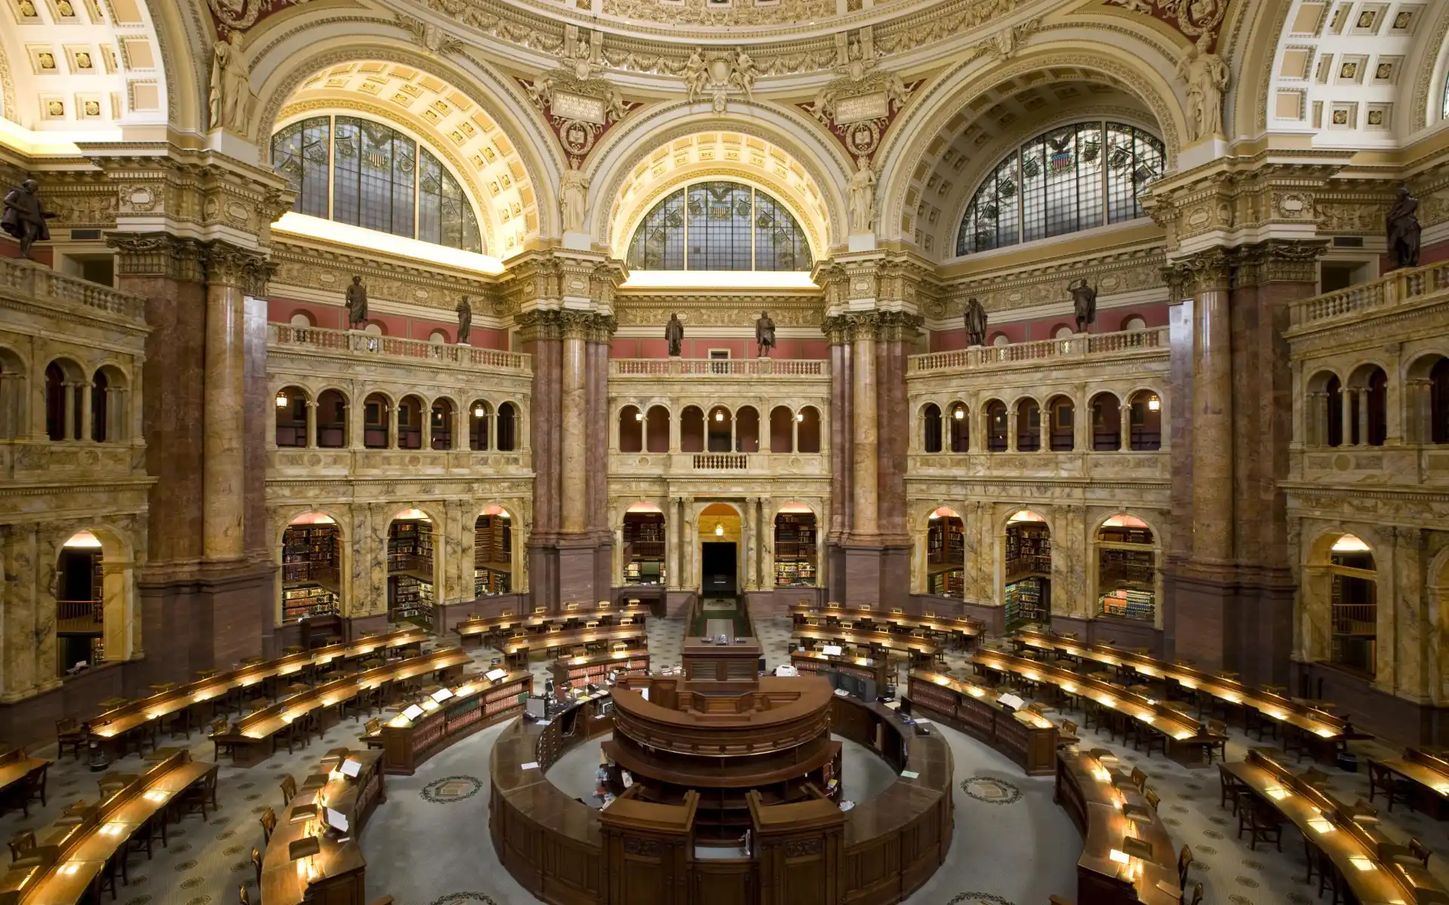
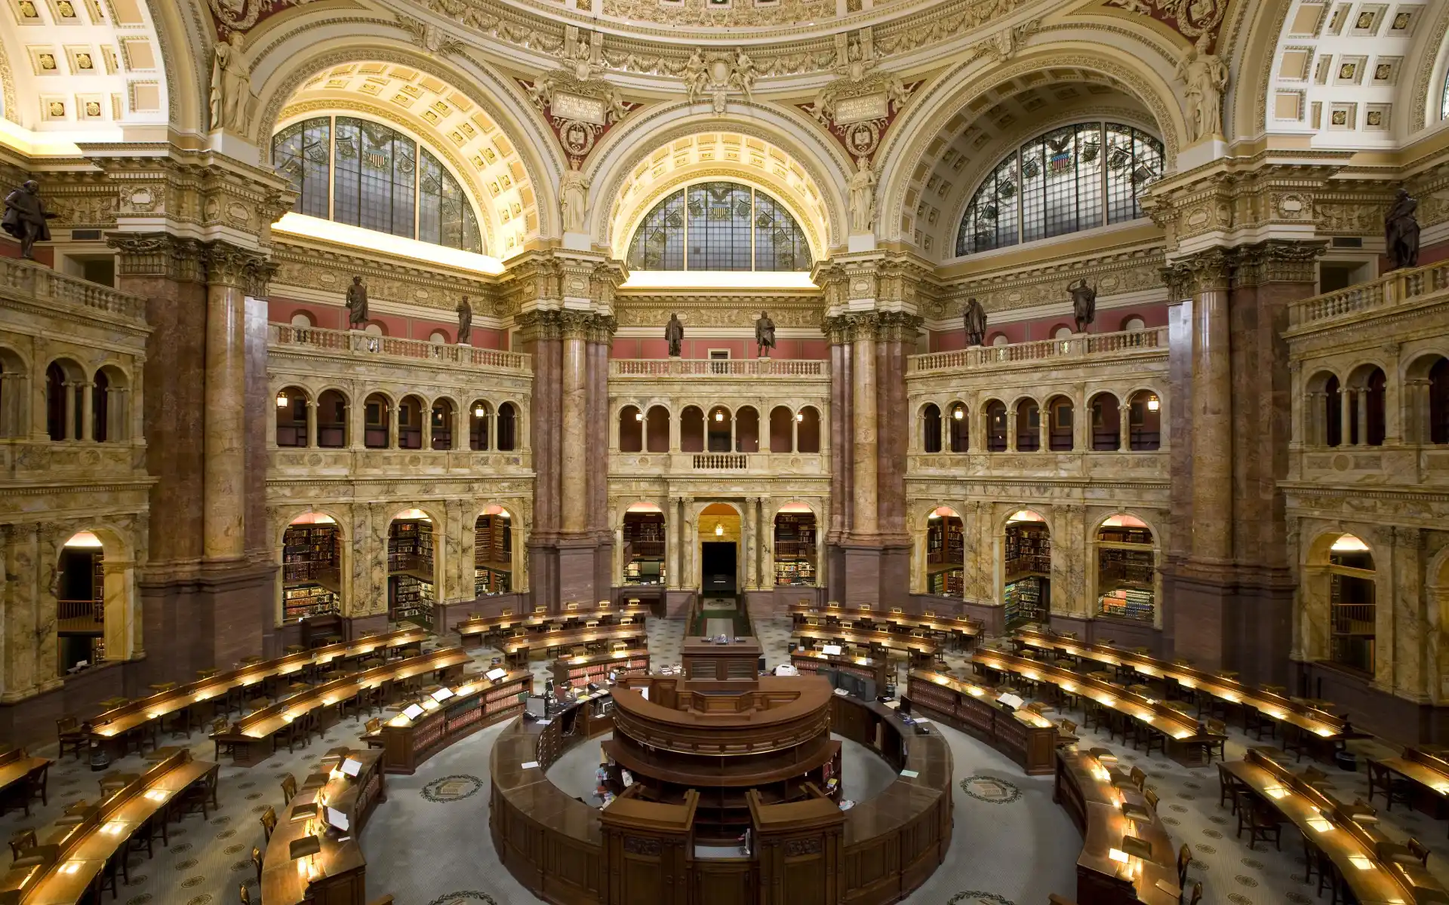
Visual assessment; quieter frame and sharper photos
Removes the generic touches Andrew flagged: frosted glass, pills,
gradients and glows, monospace result box, dashboard stats, pink chips,
stacked footer pills. Solid paper surfaces, hairline rules, one corner
shape per look, flat pieces, display-serif verdict. Photos re-rendered
from larger originals (LoC 3600 px, NASA 5724 px) with a 2880 px version
for high-resolution screens. Assets v=8.

Checks: contrast 560 pairs >= 4.5:1; check-lines 0 problems; 1440/375 px
in every look and state.

diff --git a/site/styles.css b/site/styles.css
@@ -125,9 +125,9 @@ button:focus-visible,a:focus-visible,.tile:focus-visible{outline:3px solid var(-
    Settings tile, in light and dark. Text sits on the frosted card, top bar and footer; their tint is strong enough that every
    text colour stays at least 4.5:1 even over pure black or white (checked in docs/mockups/check-contrast.js). */
 [data-look]{--veil:rgba(0,0,0,0);--hl2:var(--hl);--accent-ink:#FFFFFF;--line-size:clamp(28px,4.6vw,40px);--line-weight:400;--line-track:-.01em}
-[data-look="library"]{--art:url("looks/library-desk.webp");--art-p:url("looks/library-phone.webp")}
-[data-look="coast"]{--art:url("looks/coast-desk.webp");--art-p:url("looks/coast-phone.webp")}
-[data-look="night"]{--art:url("looks/night-desk.webp");--art-p:url("looks/night-phone.webp")}
+[data-look="library"]{--art:url("looks/library-desk.webp");--art2:image-set(url("looks/library-desk.webp") 1x,url("looks/library-desk2.webp") 2x);--art-p:url("looks/library-phone.webp")}
+[data-look="coast"]{--art:url("looks/coast-desk.webp");--art2:image-set(url("looks/coast-desk.webp") 1x,url("looks/coast-desk2.webp") 2x);--art-p:url("looks/coast-phone.webp")}
+[data-look="night"]{--art:url("looks/night-desk.webp");--art2:image-set(url("looks/night-desk.webp") 1x,url("looks/night-desk2.webp") 2x);--art-p:url("looks/night-phone.webp")}
 [data-look="library"],:root[data-look="library"]{--paper:#F3ECDB;--card:#FBF6EA;--glass:rgba(251,246,234,.92);--rim:rgba(255,255,255,.6);--ink:#211A10;--muted:#5D533F;--line:#E4D9BF;--bar:#24402F;--tool:#C9A048;--hl:#F1D488;--hl2:#E2B64E;--hl-ink:#211A10;--accent:#6B4F12;--accent-bg:#F3E7C9;--accent-ink:#FFFFFF;
   --serif:"Cormorant Garamond",Georgia,serif;--sans:"Inter",system-ui,-apple-system,"Segoe UI",sans-serif;--line-weight:500;--line-size:clamp(30px,4.8vw,42px);--line-track:-.005em}
 [data-look="coast"],:root[data-look="coast"]{--paper:#EEF3F7;--card:#FFFFFF;--glass:rgba(255,255,255,.86);--rim:rgba(255,255,255,.85);--ink:#0F2236;--muted:#4A5B6E;--line:#D9E2EA;--bar:#4F8E9D;--hl:#F3D7A6;--hl-ink:#0F2236;--accent:#1D5E86;--accent-bg:#DDEBF3;--accent-ink:#FFFFFF;
@@ -147,43 +147,73 @@ button:focus-visible,a:focus-visible,.tile:focus-visible{outline:3px solid var(-
 /* The photo: one fixed layer behind the page (a phone-shaped crop on small screens), and a small copy in each Settings tile. */
 .scene{display:none}
 :root:is([data-look="library"],[data-look="coast"],[data-look="night"]) body>.scene{display:block;position:fixed;inset:0;z-index:0;pointer-events:none;background:linear-gradient(var(--veil),var(--veil)),var(--art) center/cover no-repeat,var(--paper)}
+@supports (background-image:image-set(url("x.webp") 1x)){@media (min-width:601px){:root:is([data-look="library"],[data-look="coast"],[data-look="night"]) body>.scene{background-image:linear-gradient(var(--veil),var(--veil)),var(--art2)}}}
 @media (max-width:600px){:root:is([data-look="library"],[data-look="coast"],[data-look="night"]) body>.scene{background-image:linear-gradient(var(--veil),var(--veil)),var(--art-p)}}
 .wrap{position:relative;z-index:1;max-width:760px;gap:22px}
 
-/* The sleeker frame, in every look: a floating top bar, a frosted card with room to breathe, pill controls, a one-line footer. */
-header{background:var(--glass);border:1px solid var(--rim);border-radius:999px;padding:10px 10px 10px 22px;-webkit-backdrop-filter:blur(22px) saturate(1.2);backdrop-filter:blur(22px) saturate(1.2)}
+/* The frame, in every look. Solid paper surfaces (no frosted glass), hairline rules, one corner radius per look (--r for controls,
+   --r-lg for the bar and card), flat clue pieces, no glows or gradients. The photo is the atmosphere; the card is the page. */
+[data-look]{--r:6px;--r-lg:10px}
+:root[data-look="library"],[data-look="library"]{--r:2px;--r-lg:3px}
+:root[data-look="coast"],[data-look="coast"]{--r:10px;--r-lg:18px}
+:root[data-look="night"],[data-look="night"]{--r:6px;--r-lg:12px}
+header{background:var(--card);border:1px solid var(--line);border-radius:var(--r-lg);padding:12px 14px 12px 24px;box-shadow:0 10px 30px -18px rgba(0,0,0,.45)}
 h1{font-size:27px;line-height:1.1;white-space:nowrap}
 h1 b{background:none;color:var(--accent);padding:0;font-weight:inherit}
-nav a{font-weight:500;font-size:13.5px;padding:8px 13px}
-nav a[aria-current=page]{background:var(--accent-bg);box-shadow:none}
-main.card{background:var(--glass);border:1px solid var(--rim);border-radius:28px;padding:40px clamp(22px,5vw,48px) 36px;gap:26px;-webkit-backdrop-filter:blur(22px) saturate(1.2);backdrop-filter:blur(22px) saturate(1.2);box-shadow:0 40px 80px -40px rgba(0,0,0,.45)}
+nav a{font-weight:500;font-size:14px;padding:8px 12px;border-radius:0}
+nav a[aria-current=page]{background:none;box-shadow:inset 0 -2px 0 var(--accent);color:var(--ink)}
+main.card{background:var(--card);border:1px solid var(--line);border-radius:var(--r-lg);padding:44px clamp(22px,5.5vw,56px) 40px;gap:28px;box-shadow:0 30px 70px -36px rgba(0,0,0,.55)}
 .meta{font-weight:500;letter-spacing:.01em}
-.quote{font-weight:var(--line-weight);font-size:var(--line-size);line-height:1.32;letter-spacing:var(--line-track)}
+.quote{font-weight:var(--line-weight);font-size:var(--line-size);line-height:1.3;letter-spacing:var(--line-track)}
 .part{padding:.02em .06em}
-.part.fresh{background:linear-gradient(180deg,var(--hl),var(--hl2))}
-.hints{border-left:2px solid var(--accent);padding-left:18px;margin:0;gap:6px}
-.hints li{background:none;padding:2px 0;border-radius:0}
-.hints li.fresh{background:linear-gradient(90deg,var(--hl),rgba(0,0,0,0));padding-left:8px;margin-left:-8px;border-radius:4px}
-.btn{border-radius:999px;background:var(--accent);border-color:var(--accent);color:var(--accent-ink);padding:12px 24px}
+.part.hid,.part.fresh{border-radius:var(--r)}
+.hints{border:0;padding:0;margin:0;gap:0}
+.hints li{background:none;border-radius:0;padding:10px 0;border-top:1px solid var(--line)}
+.hints li:first-child{border-top:0;padding-top:0}
+.hints li.fresh{background:none;color:var(--ink)}
+.hints li.fresh span{color:var(--ink)}
+.hints li.fresh{background:var(--hl);color:var(--hl-ink);padding:9px 12px;border-radius:var(--r);border-top-color:transparent}
+.hints li.fresh span{color:var(--hl-ink)}
+.btn{border-radius:var(--r);background:var(--accent);border-color:var(--accent);color:var(--accent-ink);padding:12px 22px}
 .btn.ghost{background:transparent;color:var(--ink);border-color:var(--line)}
-input[type=text]{border-radius:999px;padding:12px 22px;border-width:1px}
+.btn.ghost:hover{border-color:var(--ink)}
+input[type=text]{border-radius:var(--r);padding:12px 16px;border-width:1px;background:var(--paper)}
 input[type=text]:focus{border-color:var(--accent);box-shadow:0 0 0 3px var(--accent-bg)}
-.foot,.site-credit{align-self:center;background:var(--glass);border:1px solid var(--rim);border-radius:999px;padding:6px 16px;-webkit-backdrop-filter:blur(16px);backdrop-filter:blur(16px)}
-:root[data-look="contrast"] :is(header,main.card,.foot,.site-credit){-webkit-backdrop-filter:none;backdrop-filter:none;box-shadow:none}
-@media (max-width:600px){header{flex-wrap:wrap;border-radius:22px;padding:12px 8px 6px 16px;row-gap:6px}header nav{width:100%;justify-content:space-between;gap:0}nav a{padding:7px 8px;font-size:12.5px}
-  main.card{border-radius:22px;padding:26px 20px 24px;gap:22px}}
+.help{border-radius:var(--r);background:var(--paper);border:1px solid var(--line)}
+.gotit{border-radius:var(--r)}
+.verdict{font-family:var(--serif);font-weight:var(--line-weight);font-size:calc(var(--line-size)*.66);line-height:1.2}
+.verdict.won{color:var(--ink)}
+.misses{gap:4px 14px}
+.misses li{background:none;padding:0;border-radius:0;color:var(--muted);text-decoration:none}
+.misses li::before{content:"Not ";white-space:pre}
+.facts dt{font-weight:500}
+.facts dd i{font-size:1.12em}
+.note{font-size:calc(var(--line-size)*.5);line-height:1.6;max-width:none}
+:root[data-look="library"] .note{font-size:21px}
+.bonus{border-top:1px solid var(--line)}
+.tile,.choice{border-radius:var(--r);border-width:1px}
+.share{background:none;border:1px solid var(--line);border-radius:var(--r);padding:18px 20px}
+.share pre{font:500 15px/1.6 var(--sans)}
+.arch a{border-radius:var(--r);background:var(--paper)}
+.nums{gap:0;grid-template-columns:repeat(3,1fr);border-top:1px solid var(--line)}
+.num{background:none;border-radius:0;padding:16px 4px;border-bottom:1px solid var(--line)}
+.num b{font-size:36px;font-variant-numeric:lining-nums tabular-nums}
+.bars .b{border-radius:var(--r);background:var(--paper)}
+.bars .b.won{background:var(--accent-bg);color:var(--ink)}
+.colophon{align-self:center;display:flex;flex-wrap:wrap;justify-content:center;gap:2px 14px;background:var(--card);border:1px solid var(--line);border-radius:var(--r-lg);padding:8px 18px}
+.colophon p{margin:0}
+:root[data-look="contrast"] :is(header,main.card,.colophon){box-shadow:none}
+@media (max-width:600px){header{flex-wrap:wrap;padding:12px 8px 4px 16px;row-gap:4px}header nav{width:100%;justify-content:space-between;gap:0}nav a{padding:8px 8px;font-size:13px}
+  main.card{padding:28px 20px 26px;gap:24px}.colophon{flex-direction:column;align-items:center;text-align:center}}
 
-/* Accents per look. Library: leather book-spine pieces with gold tooling, a gold-leaf highlight, squarer corners, an underlined title.
-   Coast: sea-glass pieces, sand highlight, round everything. Night: frosted-glass pieces with a faint glow, a moon-gold highlight. */
-:root[data-look="library"] .part.hid,.rtile[data-look="library"] .mini .h{background:linear-gradient(90deg,rgba(0,0,0,0) 6%,var(--tool) 6%,var(--tool) 7.5%,rgba(0,0,0,0) 7.5%,rgba(0,0,0,0) 92.5%,var(--tool) 92.5%,var(--tool) 94%,rgba(0,0,0,0) 94%),linear-gradient(180deg,rgba(255,255,255,.12),rgba(0,0,0,.2)),var(--bar);border-radius:3px;box-shadow:inset 0 1px 0 var(--tool),inset 0 -1px 0 var(--tool)}
-:root[data-look="library"] main.card{border-radius:6px;box-shadow:0 0 0 1px rgba(140,106,30,.35),0 40px 80px -40px rgba(0,0,0,.6)}
-:root[data-look="library"] :is(.btn,input[type=text],.tile,.choice){border-radius:4px}
+/* Accents per look. Library: leather book-spine pieces with gold tooling, a gold-leaf highlight, an underlined title.
+   Coast: flat sea-glass pieces, a sand highlight. Night: pale glass pieces that read as frosted panes, a moon-gold highlight. */
+:root[data-look="library"] .part.hid,.rtile[data-look="library"] .mini .h{background:linear-gradient(90deg,rgba(0,0,0,0) 6%,var(--tool) 6%,var(--tool) 7.5%,rgba(0,0,0,0) 7.5%,rgba(0,0,0,0) 92.5%,var(--tool) 92.5%,var(--tool) 94%,rgba(0,0,0,0) 94%),var(--bar);box-shadow:inset 0 1px 0 var(--tool),inset 0 -1px 0 var(--tool)}
 :root[data-look="library"] h1 b{border-bottom:2px solid currentColor;font-style:normal;font-weight:600}
-:root[data-look="coast"] .part.hid,.rtile[data-look="coast"] .mini .h{background:linear-gradient(160deg,rgba(255,255,255,.55),rgba(255,255,255,0) 45%),linear-gradient(135deg,#7FB9BE,#4F8E9D);border-radius:999px;box-shadow:inset 0 0 0 1px rgba(255,255,255,.5)}
-:root[data-look="coast"] .part.fresh{border-radius:999px;padding:.02em .3em}
+:root[data-look="coast"] .part.hid,.rtile[data-look="coast"] .mini .h{background:#6FA5AC;box-shadow:inset 0 0 0 1px rgba(255,255,255,.35)}
 :root[data-look="coast"] h1{font-style:normal;font-weight:600}
-:root[data-look="night"] .part.hid,.rtile[data-look="night"] .mini .h{background:linear-gradient(180deg,rgba(255,255,255,.32),rgba(255,255,255,.14));border-radius:4px;box-shadow:inset 0 0 0 1px rgba(255,255,255,.35),0 0 18px rgba(170,190,255,.18)}
-:root[data-look="night"] .part.fresh{border-radius:4px;box-shadow:0 0 22px rgba(242,226,164,.35)}
+:root[data-look="night"] .part.hid,.rtile[data-look="night"] .mini .h{background:#4B5378;box-shadow:inset 0 0 0 1px #737CA6}
+.part.fresh{background:var(--hl)}
 
 /* Look picker in Settings: a small picture of each look and its clue pieces, in that look's own type. */
 .rooms{display:grid;grid-template-columns:repeat(auto-fill,minmax(150px,1fr));gap:10px}
@@ -223,3 +253,4 @@ input[type=text]:focus{border-color:var(--accent);box-shadow:0 0 0 3px var(--acc
 .switch{align-self:flex-start}
 .q{font-weight:700;font-size:15px;margin:0}
 @media (max-width:480px){nav{gap:2px}nav a{padding:7px 9px}.choices{grid-template-columns:1fr 1fr}.choice{font-size:15px;padding:8px 10px}}
+:root[data-look="library"] body{font-variant-numeric:lining-nums}

diff --git a/site/index.html b/site/index.html
@@ -29,7 +29,7 @@
 <link rel="preconnect" href="https://fonts.gstatic.com" crossorigin>
 <script>document.documentElement.dataset.look="library";try{var p=JSON.parse(localStorage.getItem("half-a-line-prefs"))||{},d=document.documentElement;var r=p.look||({reading:"library",study:"library",alpine:"night",timber:"coast",contrast:"contrast"})[p.room]||({sage:"coast",contrast:"contrast"})[p.palette];if(/^(library|coast|night|contrast)$/.test(r))d.dataset.look=r;if(p.mode==="light"||p.mode==="dark")d.dataset.theme=p.mode}catch(e){}</script>
 <link rel="stylesheet" href="https://fonts.googleapis.com/css2?family=Cormorant+Garamond:ital,wght@0,500;0,600;1,500&family=Inter:wght@400;500;600;700&family=Fraunces:ital,opsz,wght@0,9..144,300;0,9..144,400;0,9..144,600;1,9..144,300&family=DM+Sans:opsz,wght@9..40,400;9..40,500;9..40,600;9..40,700&family=Instrument+Serif:ital@0;1&family=Space+Grotesk:wght@400;500;600;700&display=swap">
-<link rel="stylesheet" href="styles.css?v=7">
+<link rel="stylesheet" href="styles.css?v=8">
 </head>
 <body>
 <div class="scene" aria-hidden="true"></div>
@@ -42,11 +42,10 @@
     </nav>
   </header>
   <main class="card" id="card" tabindex="-1"><p>Loading today's line…</p></main>
-  <p class="foot">A new line every day at midnight, your time.</p>
   <p class="sr" id="status" role="status" aria-live="polite"></p>
-  <p class="site-credit">Designed and built by Andrew Cao<a class="maker-mark" href="https://andrewcao.org/" aria-label="Andrew Cao’s home page"><img src="andrew-cao-mark.svg" alt="" width="12" height="12"></a></p>
+  <footer class="colophon"><p class="foot">A new line every day at midnight, your time.</p><p class="site-credit">Designed and built by Andrew Cao<a class="maker-mark" href="https://andrewcao.org/" aria-label="Andrew Cao’s home page"><img src="andrew-cao-mark.svg" alt="" width="12" height="12"></a></p></footer>
 </div>
-<script src="lines.js?v=7"></script>
-<script src="app.js?v=7"></script>
+<script src="lines.js?v=8"></script>
+<script src="app.js?v=8"></script>
 </body>
 </html>

diff --git a/site/404.html b/site/404.html
@@ -11,7 +11,7 @@
 <link rel="preconnect" href="https://fonts.gstatic.com" crossorigin>
 <script>document.documentElement.dataset.look="library";try{var p=JSON.parse(localStorage.getItem("half-a-line-prefs"))||{},d=document.documentElement;var r=p.look||({reading:"library",study:"library",alpine:"night",timber:"coast",contrast:"contrast"})[p.room]||({sage:"coast",contrast:"contrast"})[p.palette];if(/^(library|coast|night|contrast)$/.test(r))d.dataset.look=r;if(p.mode==="light"||p.mode==="dark")d.dataset.theme=p.mode}catch(e){}</script>
 <link rel="stylesheet" href="https://fonts.googleapis.com/css2?family=Cormorant+Garamond:ital,wght@0,500;0,600;1,500&family=Inter:wght@400;500;600;700&family=Fraunces:ital,opsz,wght@0,9..144,300;0,9..144,400;0,9..144,600;1,9..144,300&family=DM+Sans:opsz,wght@9..40,400;9..40,500;9..40,600;9..40,700&family=Instrument+Serif:ital@0;1&family=Space+Grotesk:wght@400;500;600;700&display=swap">
-<link rel="stylesheet" href="/styles.css?v=7">
+<link rel="stylesheet" href="/styles.css?v=8">
 </head>
 <body>
 <div class="scene" aria-hidden="true"></div>

diff --git a/HANDOFF.md b/HANDOFF.md
@@ -4,6 +4,7 @@
 Live since 18 November 2026 at https://halfaline.andrewcao.org/ (moved from https://acao-boop.github.io/half-a-line/, which forwards) (tag `published`), and hung third on the andrewcao.org wall (acao-boop/enoch#54). Day 1 is 18 November 2026 (Pride and Prejudice). 60 lines run to 16 January 2027.
 
 ## Last change
+- 2026-11-20 (Andrew: recheck image resolution, full visual assessment, fix what feels "vibe-coded"; branch `claude/aesthetic-rooms`, not merged or published): `docs/visual-assessment-2026-11.md`. Frame de-genericised: no frosted glass (solid paper card and top bar), one corner shape per look instead of pills, flat clue pieces and highlights (no gradients or glows), result box in the page type instead of monospace, stats as numerals on hairline rules, "Got it" in the display serif, plain "Not Hamlet" for wrong guesses, one footer strip (index.html now wraps the two footer lines in `<footer class="colophon">`), newest hint highlighted again, lining numerals in Library. Photos re-rendered from larger originals (LoC 3600 px; NASA 5724 px) at 1920 desktop, 2880 for high-resolution screens (`*-desk2.webp`, via `image-set`), 750 × 1625 phone. Assets v=8. Checked: contrast 560 pairs ≥ 4.5:1; check-lines 0 problems; 1440 and 375 px in every look and state.
 - 2026-11-20 (Andrew: three distinct looks, wider net including nature, sleeker type and layout; picked "all three as choices"; branch `claude/aesthetic-rooms`, not merged or published): the four rooms become three looks plus High contrast, each a public-domain photograph with its own type, colours and clue pieces: Library (LoC reading room; Cormorant Garamond + Inter; leather-spine pieces; default), Coast (Big Sur at dawn, Highsmith; Fraunces + DM Sans; sea-glass pieces), Night (Milky Way over Spruce Knob, NASA/Bill Ingalls; Instrument Serif + Space Grotesk; always dark). Sleeker frame for all: floating frosted top bar, frosted card with more space, larger line, pill buttons and inputs, hints as a ruled list. Library and Coast have evening versions. Photos in `site/looks/` (old `site/rooms/` removed). Saved as `look` in `half-a-line-prefs`; earlier choices map across (rooms: reading/study → Library, alpine → Night, timber → Coast; palettes: sage → Coast; contrast stays; anything else → Library); `half-a-line-v3` untouched. About credits updated. Fonts now load Cormorant Garamond, Inter, Fraunces, DM Sans, Instrument Serif, Space Grotesk (Libre Caslon and Manrope dropped). Assets v=7. Checked: contrast 560 solid pairs ≥ 4.5:1 plus frosted surfaces worst-case over pure black and white ≥ 4.5:1 (Library gold darkened to #6B4F12 for this); check-lines 0 problems; 1280 and 375 px in every look, light and dark; arrow keys and focus ring in the picker; migration from rooms and palettes; first visit; no console errors. Sheet: `docs/mockups/shots/l-looks-build.jpg`.
 - 2026-11-20 (Andrew: "a little bit higher res … more detailing"; branch `claude/aesthetic-rooms`, not merged or published): the four room photos re-rendered sharper and larger (1920 × 1200 desktop, 750 × 1625 phone, blur 0.6–0.7 px instead of 2–2.5), the reading room from a 2600-px copy. Same photographs and licences, nothing generated. Desktop 132–206 KB, phone 56–92 KB (was 36–65 and 19–31). Only `site/rooms/*.webp` changed, so no `?v=` bump is needed for code; the photos keep their names, so browsers that cached the old ones may show them until their cache expires (GitHub Pages caches 10 minutes). Checked: before/after at 1440 px in all four rooms (`docs/mockups/shots/j-sharper-rooms.jpg`); text sits on solid plates, so contrast is unchanged.
 - 2026-11-19 (Andrew picked four real rooms; merged and published 19 Nov, tag `published` at 4d706f5, live files match): the five colour sets become rooms, each a public-domain photograph of a real room behind the card, softly blurred (`site/rooms/`, desktop 36–65 KB, phone 19–31 KB): Reading room (Library of Congress Main Reading Room, the default), Renaissance study (Gubbio studiolo), Alpine cabin (Flims Room), Timber house (Hart House room), plus High contrast. Each room styles the clue pieces (leather book spines; marble plaques with a gilt frame; pine boards with a tack). Dark mode dims the photo. Header and footer sit on solid plates. Saved as `room` in `half-a-line-prefs`; old colour sets map across (Ink → Reading room, Sepia → Renaissance study, Sage → Alpine cabin, Rose → Timber house, High contrast stays); `half-a-line-v3` untouched. Credits: one paragraph on About linking each source; full list in `docs/mockups/art/CREDITS.md`. Assets at v=6 (share image unchanged). Checked: contrast 578 pairs ≥ 4.5:1 (`node docs/mockups/check-contrast.js`); `node tools/check-lines.js` 0 problems; locally at 1280 and 375 px in every room, light and dark, Match my device, arrow keys in the room picker with focus ring, old Sage choice → Alpine cabin, first visit → Reading room, no console errors; reduced motion (no new motion). Link check: Met pages open; the LoC page shows a bot check to scripts, so look at https://www.loc.gov/pictures/item/2011646837/ by hand.

diff --git a/docs/visual-assessment-2026-11.md b/docs/visual-assessment-2026-11.md
@@ -1,0 +1,37 @@
+# Half a Line: visual assessment
+
+20 November 2026. Review of the live site (`f50669d`, the three looks), on a local copy at 1440 px desktop and 375 px phone, every page (Today fresh, mid-puzzle and solved; Archive; Stats; About; Settings), in Library, Coast and Night. Before/after screenshots: `docs/mockups/shots/m-before-after-frame.jpg`.
+
+## Verdict
+The photographs are the strongest thing on the site and should stay. The frame around them was the problem: it used the stock ingredients of generated web design, so the page read as "made by a template" rather than "made by someone". The fix is restraint: solid paper surfaces, hairline rules, one corner shape per look, no glows or gradients, and type doing the work.
+
+## What read as generic, and what changed (on branch `claude/aesthetic-rooms`)
+| # | Problem | Fix |
+|---|---|---|
+| 1 | **Frosted glass** on the top bar, the card and two footer pills. Over a busy photo it leaves muddy blotches inside the card, and it is the single most recognisable "AI design" signature. | Solid paper card and top bar, a soft shadow, a hairline border. |
+| 2 | **Rounded pills everywhere** (menu, buttons, input, footer, wrong guesses). | One corner shape per look: Library almost square (2–3 px, like a book plate), Coast soft (10–18 px), Night in between. Current page shown by an underline, not a pill. |
+| 3 | **Gradients and glows** on the clue pieces and highlights (sea-glass gradient, night glow, fading hint highlight). | Flat colours: sea-glass is one colour with a fine inner line; night pieces are a quiet slate pane; highlights are solid. |
+| 4 | **Code-style result box** (monospace text). | The result reads in the page's own type inside a hairline box. The copied text is unchanged. |
+| 5 | **Dashboard stats** (grey boxes, mint and pink bars). | Big numerals on hairline rules, three by two; bars in the look's own tint. |
+| 6 | **Mixed type** on the solved screen (a bold green sans "Got it" next to a small serif note). | "Got it with 2 extra clues." is set in the look's display serif; the note is larger and easier to read; Library uses modern numerals so "No. 1" no longer reads "No. I". |
+| 7 | **Wrong guesses as pink struck-through pills.** | Plain "Not Hamlet · Not King Lear" in grey. |
+| 8 | **Two stacked footer pills.** | One quiet strip with both lines. |
+| 9 | The newest hint lost its highlighter in the last change. | The newest hint gets the same highlighter as the newest piece of the line, as in the original design. |
+
+## Image resolution
+| Look | Live source | Now | Sizes (desktop / sharp desktop / phone) |
+|---|---|---|---|
+| Library | 2600 px | **3600 px** Library of Congress copy | 235 / 344 / 117 KB |
+| Coast | 2400 px | **3600 px** Library of Congress copy | 96 / 142 / 47 KB |
+| Night | **1920 px** (stretched on phones) | **5724 px** NASA original | 203 / 376 / 107 KB |
+Desktops now get a 1920 px backdrop, and high-resolution screens (most laptops) get a 2880 px one; phones get a 750 × 1625 crop. Every image is the same public-domain photograph as before. The sharper versions weigh more; they load behind the card, so the game itself still appears at once.
+
+## Should we add more images, or go back to the gallery?
+**Recommendation: keep the three photographs, refine them, and add curated art later through themed weeks, not now. Lean**, because it rests on a guess about players.
+- **What players want:** most never open Settings, so the default look *is* the game for them. They want the line first, quick to read, and a sense of place; a beautiful, calm Library default delivers that. A wider menu of looks mostly pleases the few who explore.
+- **Why not more photos now:** each new look multiplies fonts, colours, pieces, dark versions and checks. Three done well beats eight done loosely, and more choice makes the site feel less curated, not more.
+- **Where the gallery idea fits best:** a *painting of the week* that matches the themed week (for example a Gothic ruin for Gothic week), shown small on the solved screen or as the week's backdrop. That is genuinely curated, ties the art to the literature, and reuses the public-domain sources we already use. It needs about one image a week, chosen with each week's lines. Start with week 1 (17 January).
+- **Not recommended:** going back to drawn gallery walls; real photographs read as real, drawings read as a game background.
+
+## Checks run on the fixes
+Contrast check 560 pairs ≥ 4.5:1 (all surfaces are now solid, so the frosted worst case no longer applies); `node tools/check-lines.js` 0 problems; every look at 1440 and 375 px, fresh, mid-puzzle and solved, Archive, Stats, Settings. Assets at v=8.
